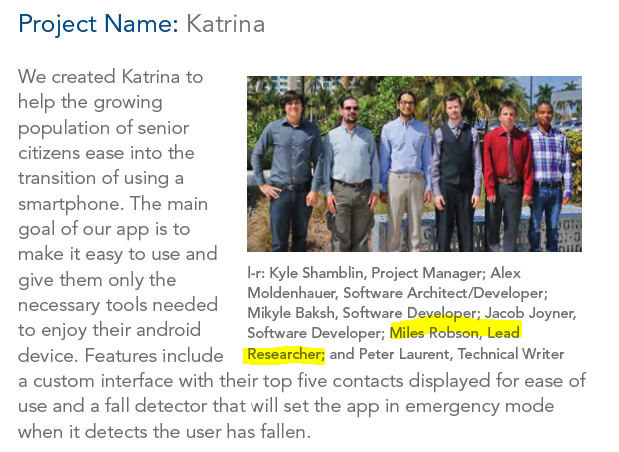
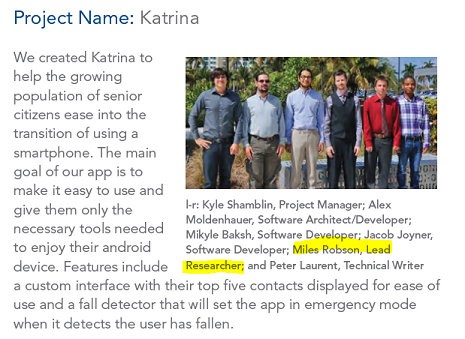
Adjusted Brochure size and img css for mobile

diff --git a/public/css/side-menu.css b/public/css/side-menu.css
@@ -38,6 +38,10 @@ This is the parent `<div>` that contains the menu and the content area.
 /*
 The content `<div>` is where all your content goes.
 */
+.img{
+    widows: 100%;
+    height: auto;
+}
 .content {
     margin: 0 auto;
     padding: 0 2em;

diff --git a/themes/blackburn/static/css/side-menu.css b/themes/blackburn/static/css/side-menu.css
@@ -38,6 +38,10 @@ This is the parent `<div>` that contains the menu and the content area.
 /*
 The content `<div>` is where all your content goes.
 */
+.img{
+    widows: 100%;
+    height: auto;
+}
 .content {
     margin: 0 auto;
     padding: 0 2em;
